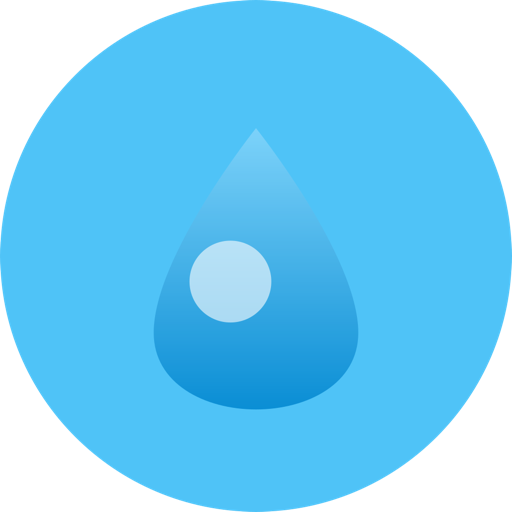
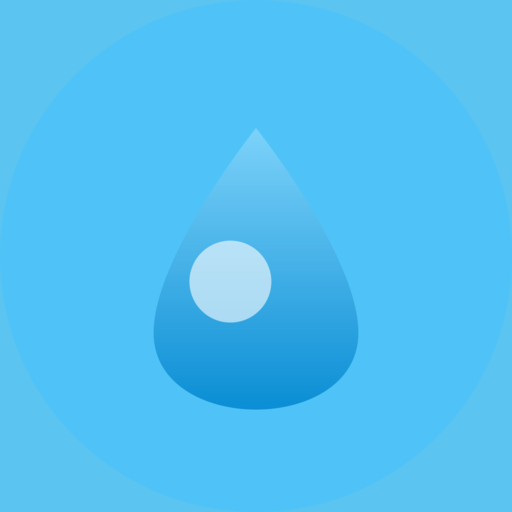
chore: 完善 Google Play 商店资源及生成脚本
- 更新 icon-512.png 符合 Google Play 规范（正方形背景）
- 添加 generate-assets.sh 自动生成脚本
- 添加 README.md 文档说明规范和用法

🤖 Generated with [Claude Code](https://claude.com/claude-code)

diff --git a/assets/store/README.md b/assets/store/README.md
@@ -1,0 +1,70 @@
+# Store Assets / 商店资源
+
+Google Play 和 App Store 上架所需的图形资源。
+
+## 文件说明
+
+| 文件 | 尺寸 | 用途 |
+|------|------|------|
+| `icon-512.png` | 512x512 | Google Play 应用图标 |
+| `feature-graphic.png` | 1024x500 | Google Play 特色图片 |
+
+## Google Play 图标规范
+
+参考: [Icon Design Specifications](https://developer.android.com/distribute/google-play/resources/icon-design-specifications)
+
+- **尺寸**: 512 x 512 px
+- **格式**: 32位 PNG (sRGB)
+- **最大文件大小**: 1024 KB
+- **形状**: 完整正方形（不要自己加圆角，Google Play 动态处理）
+- **圆角**: Google Play 自动应用 20% 圆角半径（约 102px）
+- **阴影**: 不要添加投影，Google Play 会动态添加
+
+## 重新生成资源
+
+如果更新了源图标 (`assets/images/icon.png`)，运行以下脚本重新生成：
+
+```bash
+cd assets/store
+./generate-assets.sh
+```
+
+### 依赖
+
+- ImageMagick: `brew install imagemagick`
+
+### 自定义
+
+编辑 `generate-assets.sh` 中的变量可自定义：
+
+```bash
+BACKGROUND_COLOR="#5BC4F1"    # 图标背景色
+GRADIENT_START="#0EA5E9"      # Feature Graphic 渐变起始色
+GRADIENT_END="#06B6D4"        # Feature Graphic 渐变结束色
+```
+
+## 手动生成命令
+
+### App Icon (512x512)
+
+```bash
+magick assets/images/icon.png \
+  -background '#5BC4F1' \
+  -flatten \
+  -resize 512x512 \
+  assets/store/icon-512.png
+```
+
+### Feature Graphic (1024x500)
+
+```bash
+magick -size 1024x500 \
+  gradient:'#0EA5E9'-'#06B6D4' \
+  \( assets/images/icon.png -resize 200x200 \) \
+  -gravity center -geometry +0-50 -composite \
+  -gravity center -font Helvetica-Bold -pointsize 72 -fill white \
+  -annotate +0+100 "Hydrate" \
+  -gravity center -font Helvetica -pointsize 28 -fill 'rgba(255,255,255,0.9)' \
+  -annotate +0+160 "Stay Hydrated, Stay Healthy" \
+  assets/store/feature-graphic.png
+```
